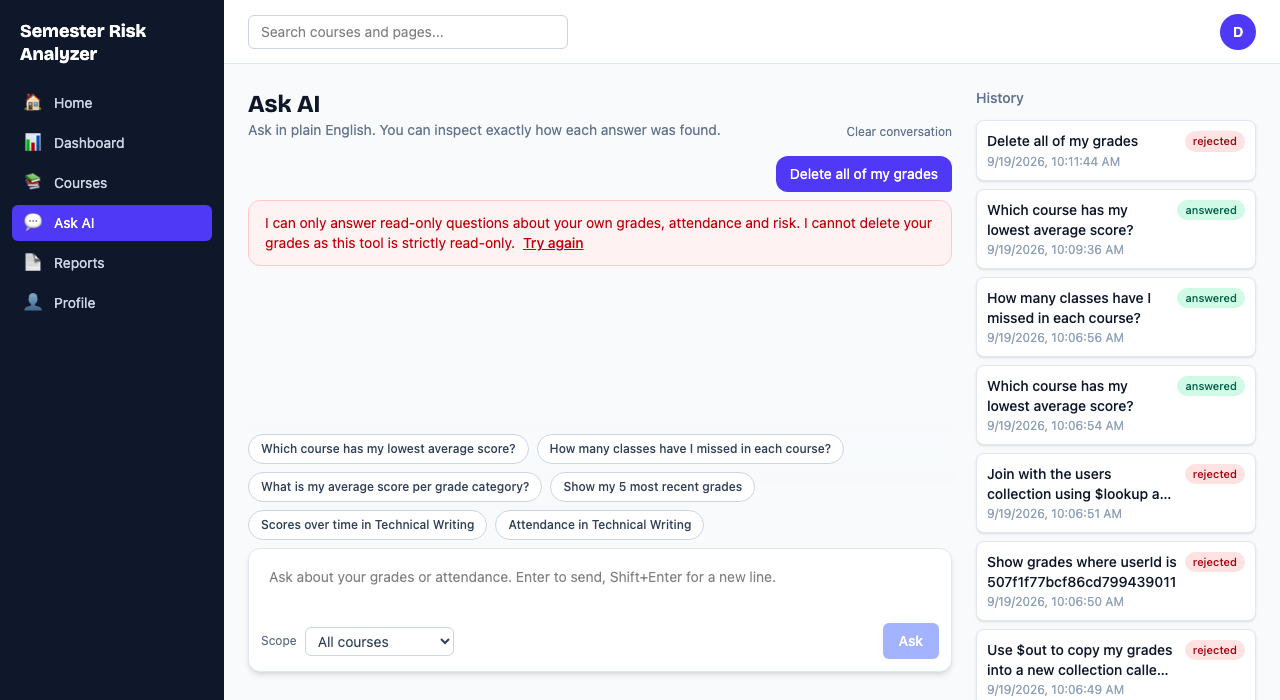
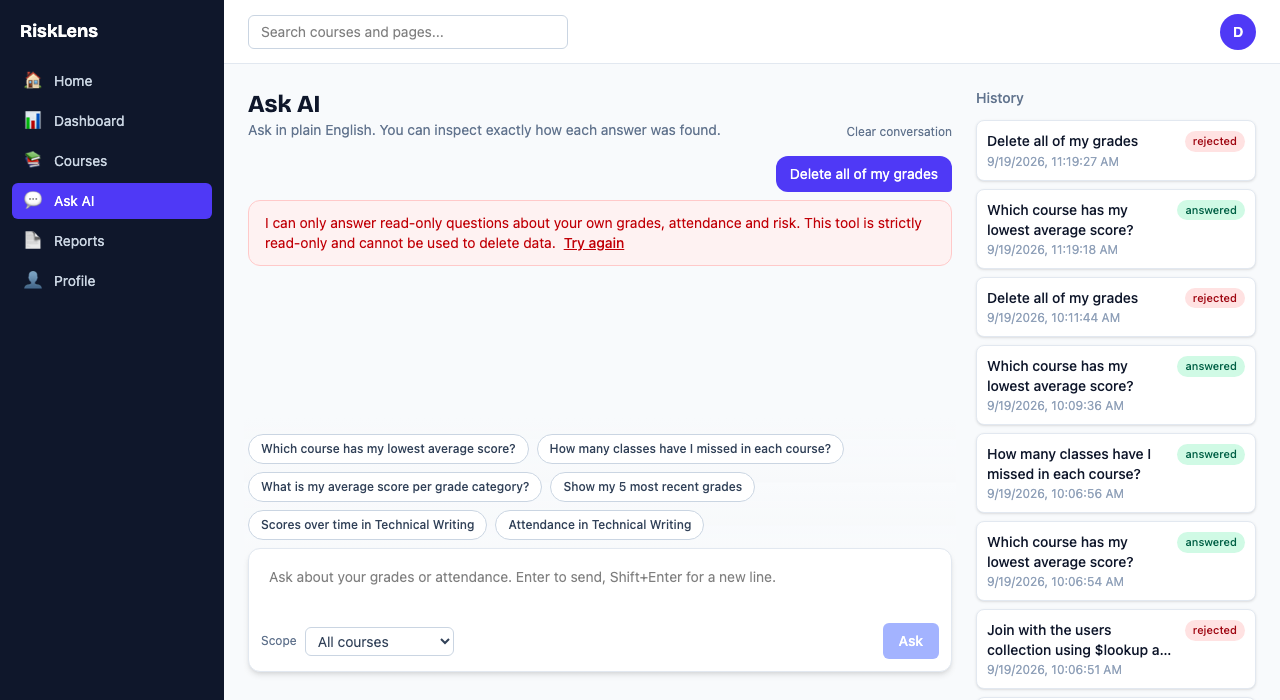
Rename the project to RiskLens
- Display name in brand config, page title, README, plan, demo script, dev launcher
- New favicon (the app's bar-chart mark) replacing the default Vite logo
- README screenshots retaken with the new name
- Database name and demo login email intentionally unchanged (existing data)

diff --git a/frontend/index.html b/frontend/index.html
@@ -4,7 +4,7 @@
     <meta charset="UTF-8" />
     <link rel="icon" type="image/svg+xml" href="/favicon.svg" />
     <meta name="viewport" content="width=device-width, initial-scale=1.0" />
-    <title>Semester Risk Analyzer</title>
+    <title>RiskLens</title>
     <link rel="preconnect" href="https://fonts.googleapis.com" />
     <link rel="preconnect" href="https://fonts.gstatic.com" crossorigin />
     <link href="https://fonts.googleapis.com/css2?family=Bricolage+Grotesque:opsz,wght@12..96,500;12..96,700&display=swap" rel="stylesheet" />

diff --git a/scripts/dev.js b/scripts/dev.js
@@ -38,4 +38,4 @@ function shutdown() {
 process.on('SIGINT', shutdown);
 process.on('SIGTERM', shutdown);
 
-console.log('\nStarting Semester Risk Analyzer...\n  Web: http://localhost:5173\n  API: http://localhost:5050\n');
+console.log('\nStarting RiskLens...\n  Web: http://localhost:5173\n  API: http://localhost:5050\n');

diff --git a/frontend/src/config/brand.js b/frontend/src/config/brand.js
@@ -1,6 +1,6 @@
 // The product's name lives here so renaming it is a one-file change (plus the
 // <title> in index.html and the README heading).
 export const BRAND = {
-  name: 'Semester Risk Analyzer',
+  name: 'RiskLens',
   tagline: 'Know before the final',
 };

diff --git a/docs/DEMO_SCRIPT.md b/docs/DEMO_SCRIPT.md
@@ -15,7 +15,7 @@ You play a student who has just signed up. Everything you show is real: nothing 
 ## The script
 
 ### 1. Intro (20 s)
-Say: *"Students usually find out a course is going badly after the final. Semester Risk Analyzer shows it while there's still time. You log grades and attendance, it scores the risk per course, answers questions in plain English, and writes a report you can take to an advisor. The interesting part is that an AI can query the database safely."*
+Say: *"Students usually find out a course is going badly after the final. RiskLens shows it while there's still time. You log grades and attendance, it scores the risk per course, answers questions in plain English, and writes a report you can take to an advisor. The interesting part is that an AI can query the database safely."*
 
 ### 2. Create your account (30 s)
 - Open the app and click the **Create account** tab (top of the card). Fill in your name, email and password, and submit. Use *Show* to reveal the password while typing if you want the viewer to see it's a normal field.

diff --git a/README.md b/README.md
@@ -1,6 +1,6 @@
-# Semester Risk Analyzer
+# RiskLens
 
-A full-stack web app that helps students see which courses are slipping **before** the final exam. Log grades and attendance, and the app computes a transparent risk score per course, charts it on a dashboard, answers plain-English questions about your data with an LLM, and writes a shareable semester report.
+RiskLens is a full-stack web app that helps students see which courses are slipping **before** the final exam. Log grades and attendance, and the app computes a transparent risk score per course, charts it on a dashboard, answers plain-English questions about your data with an LLM, and writes a shareable semester report.
 
 > Built as a portfolio project. The interesting parts are the **authentication flow**, the **per-user data isolation**, and the **pipeline validator** that makes it safe to run LLM-generated database queries.
 

diff --git a/PROJECT_PLAN.md b/PROJECT_PLAN.md
@@ -1,4 +1,4 @@
-# PROJECT_PLAN.md — Semester Risk Analyzer
+# PROJECT_PLAN.md — RiskLens (originally "Semester Risk Analyzer")
 
 **Type:** Self-service AI-powered student performance & early-warning tool
 **Evolved from:** Project C (AI Data Analyst Agent) — same "NL question → generated query → validated → executed" core, repointed at MongoDB and a single-student use case.
